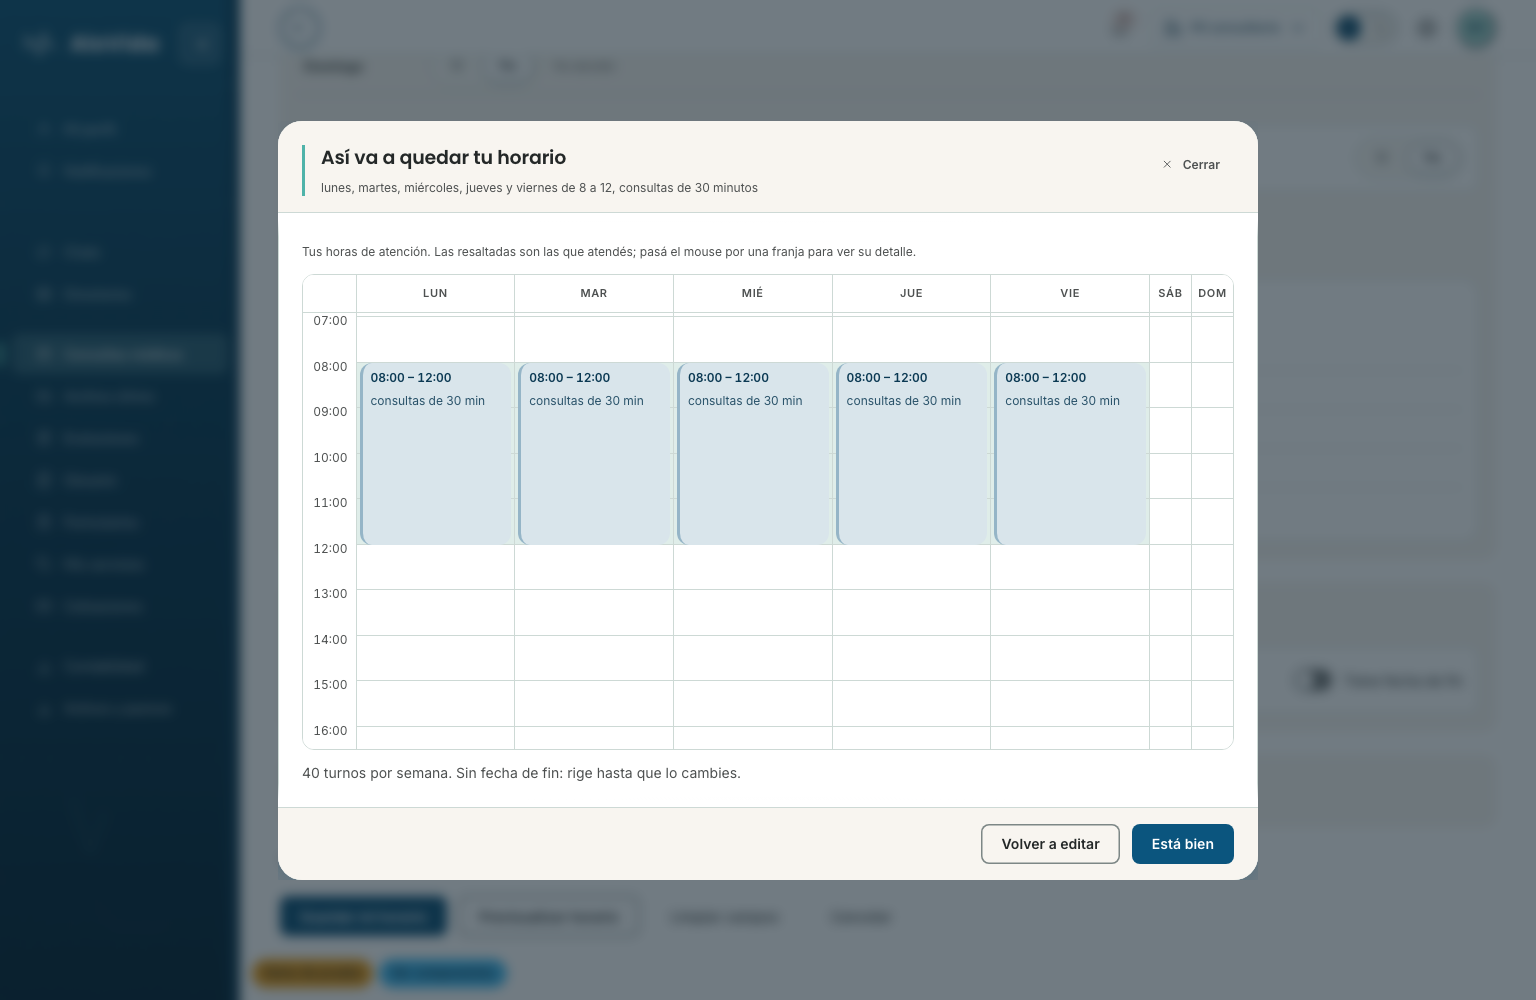
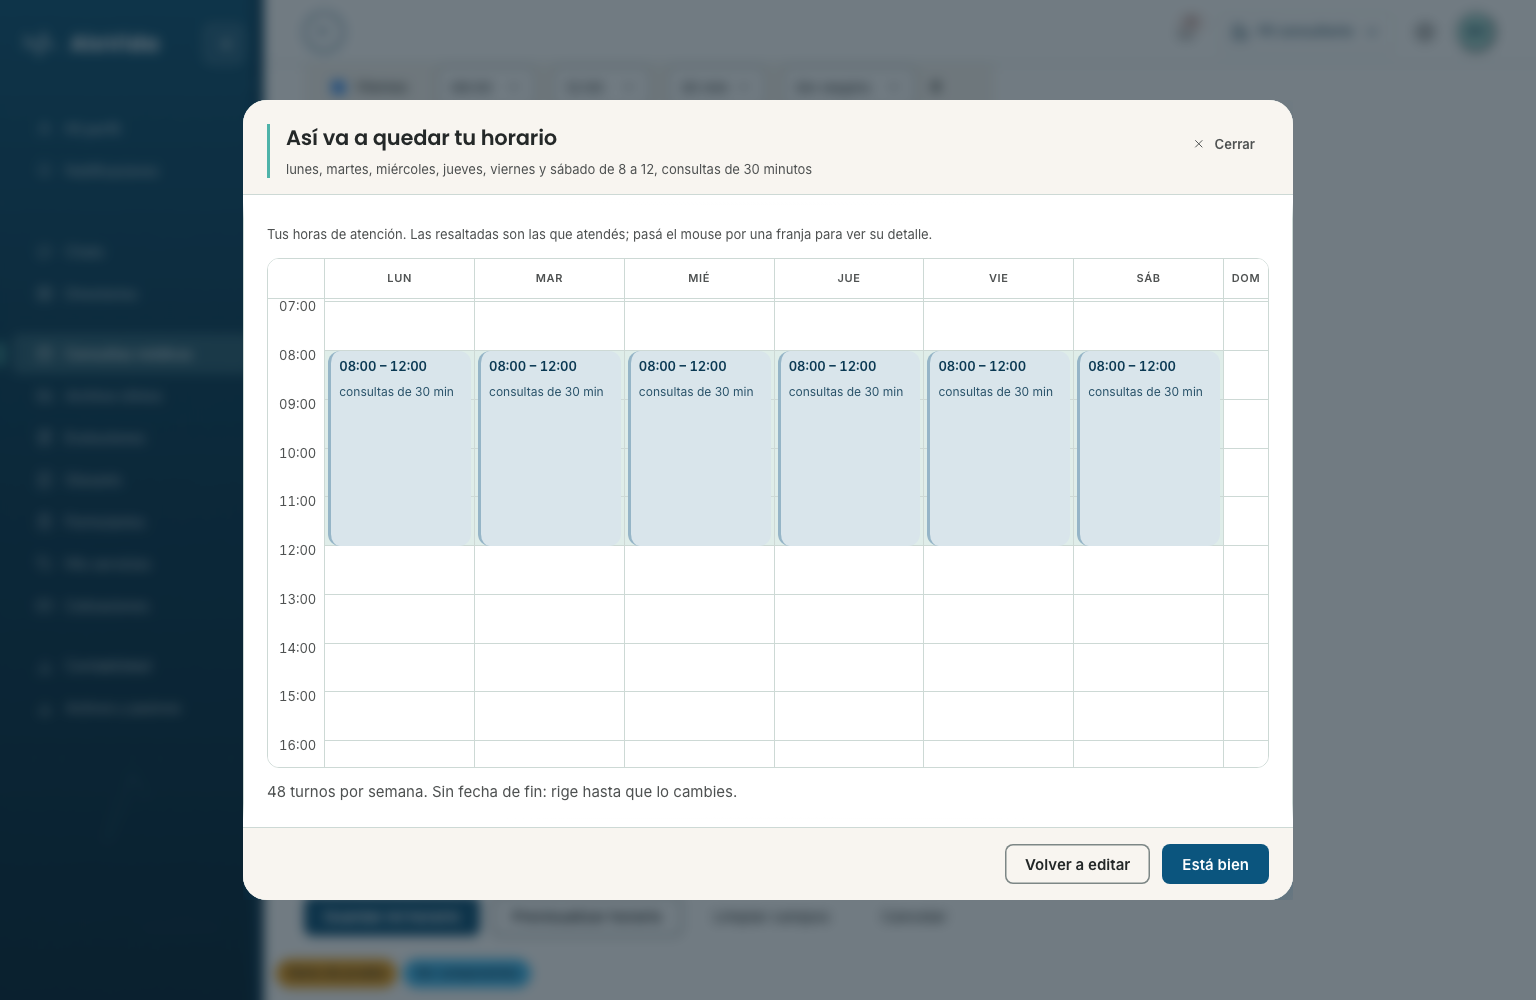
fix(horario): la vista previa muestra la grilla real, no una tira de horas
«Previsualizar horario» abría un `DialogService.confirm()` con la semana
contada en prosa —«Lunes — 8 turnos · 08:00 · 08:30 · 09:00 · …»—: una tira
de horas de inicio que no se compara entre días, no dice a qué hora cierra el
consultorio y no se parece en nada al horario que después se ve en «Mi
agenda».

Ahora el modal es el mismo que «Así era ese horario» del histórico:
`ContentDialog` con `ScheduleGrid` adentro, o sea el MISMO componente que
dibuja el horario publicado. Las reglas se arman con el mismo mapeo que usa
`crearPlantilla()` —día, horas, duración, respiro y capacidad—, así que lo que
se previsualiza es lo que se publica.

La capacidad por turno pasa a espejarse en una señal: vivía sólo en el
formulario y el globo de la grilla la habría contado desactualizada.

Evidencia: docs/frontend/evidence/previa-horario-grilla (1536 y 400 px),
regenerable con `yarn node playwright/previa-horario-grilla.mjs`.

diff --git a/src/app/features/agenda/agenda-create/agenda-create.css b/src/app/features/agenda/agenda-create/agenda-create.css
@@ -354,6 +354,13 @@
   color: var(--text-secondary);
 }
 
+/* El pie del modal de la previa: el total y la vigencia, bajo la grilla. Mismo
+   reparto que el resumen del histórico en «Mi agenda». */
+.agenda-create__previa-total {
+  margin: var(--sp-3) 0 0;
+  color: var(--text-secondary);
+}
+
 .agenda-create__previa-resto {
   grid-column: 1 / -1;
   margin: 0;
